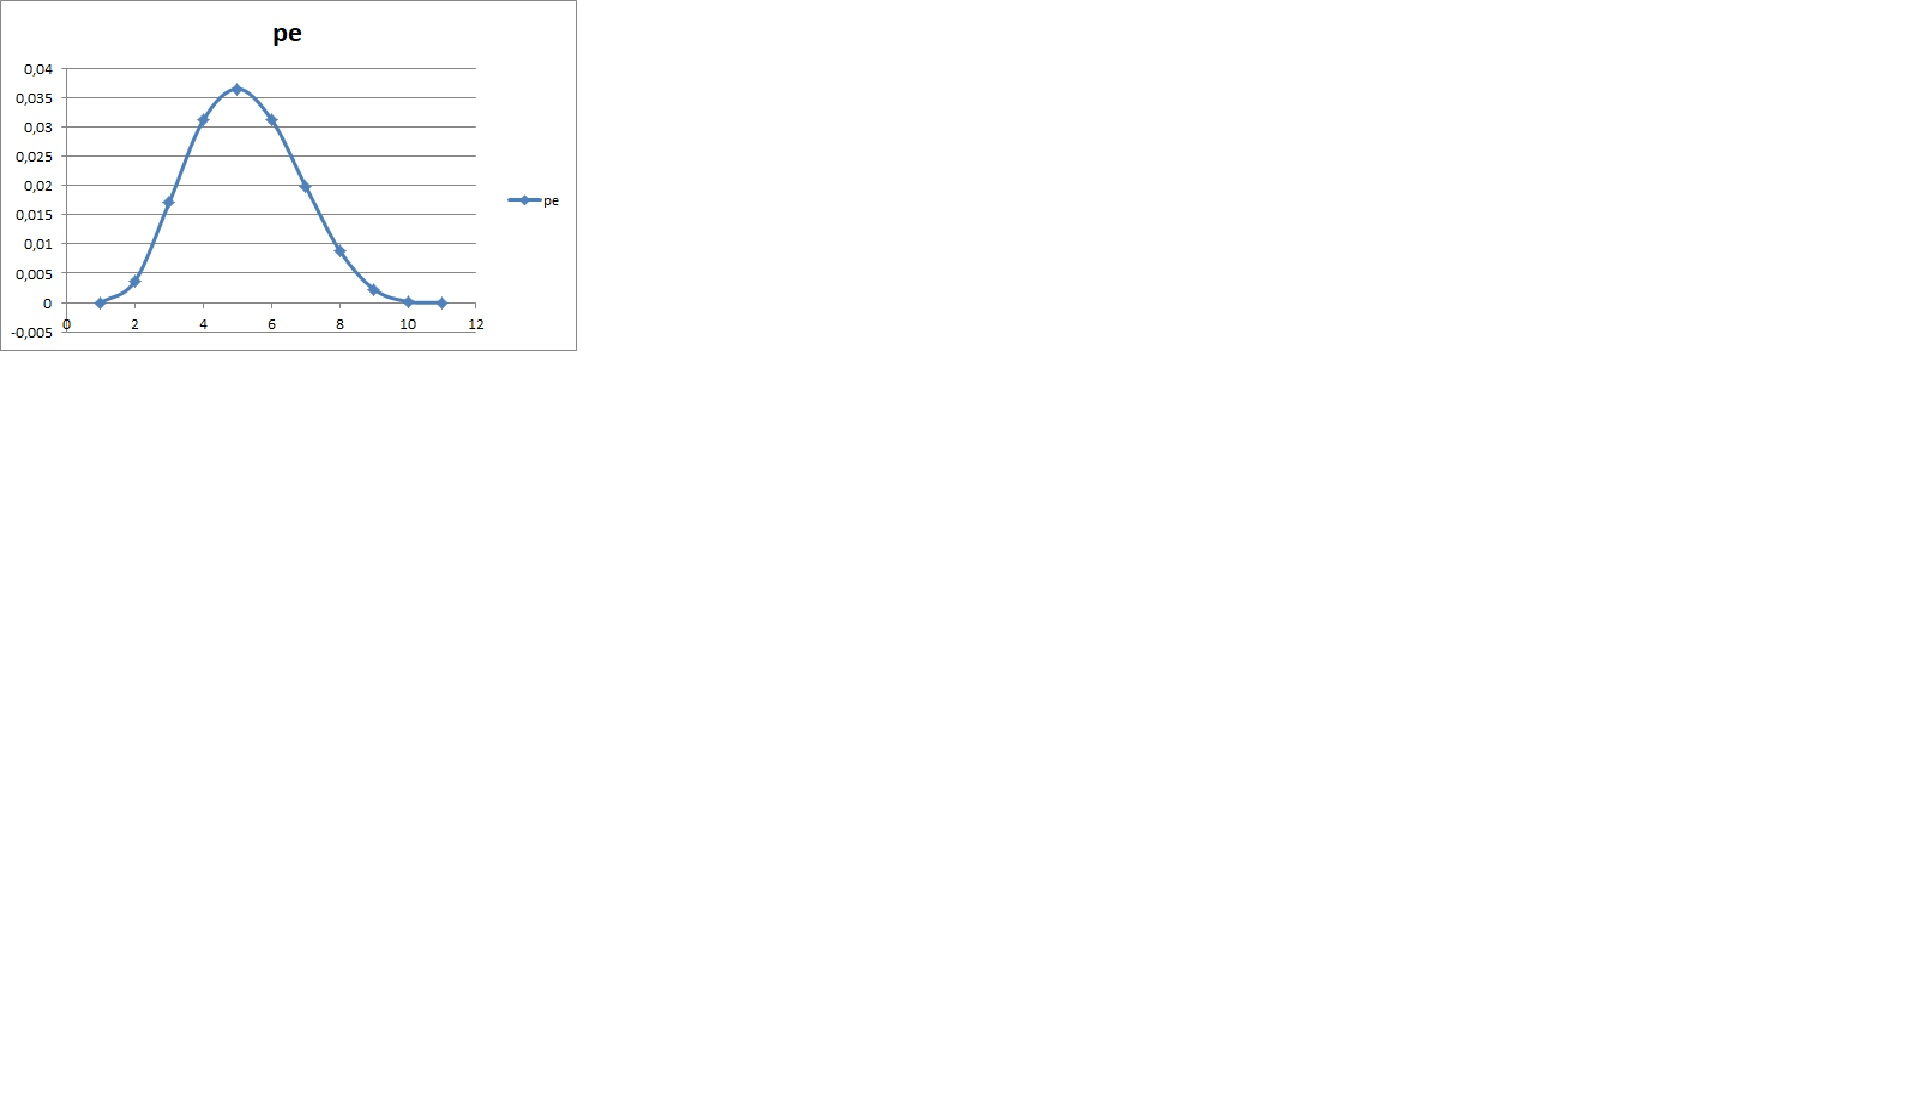
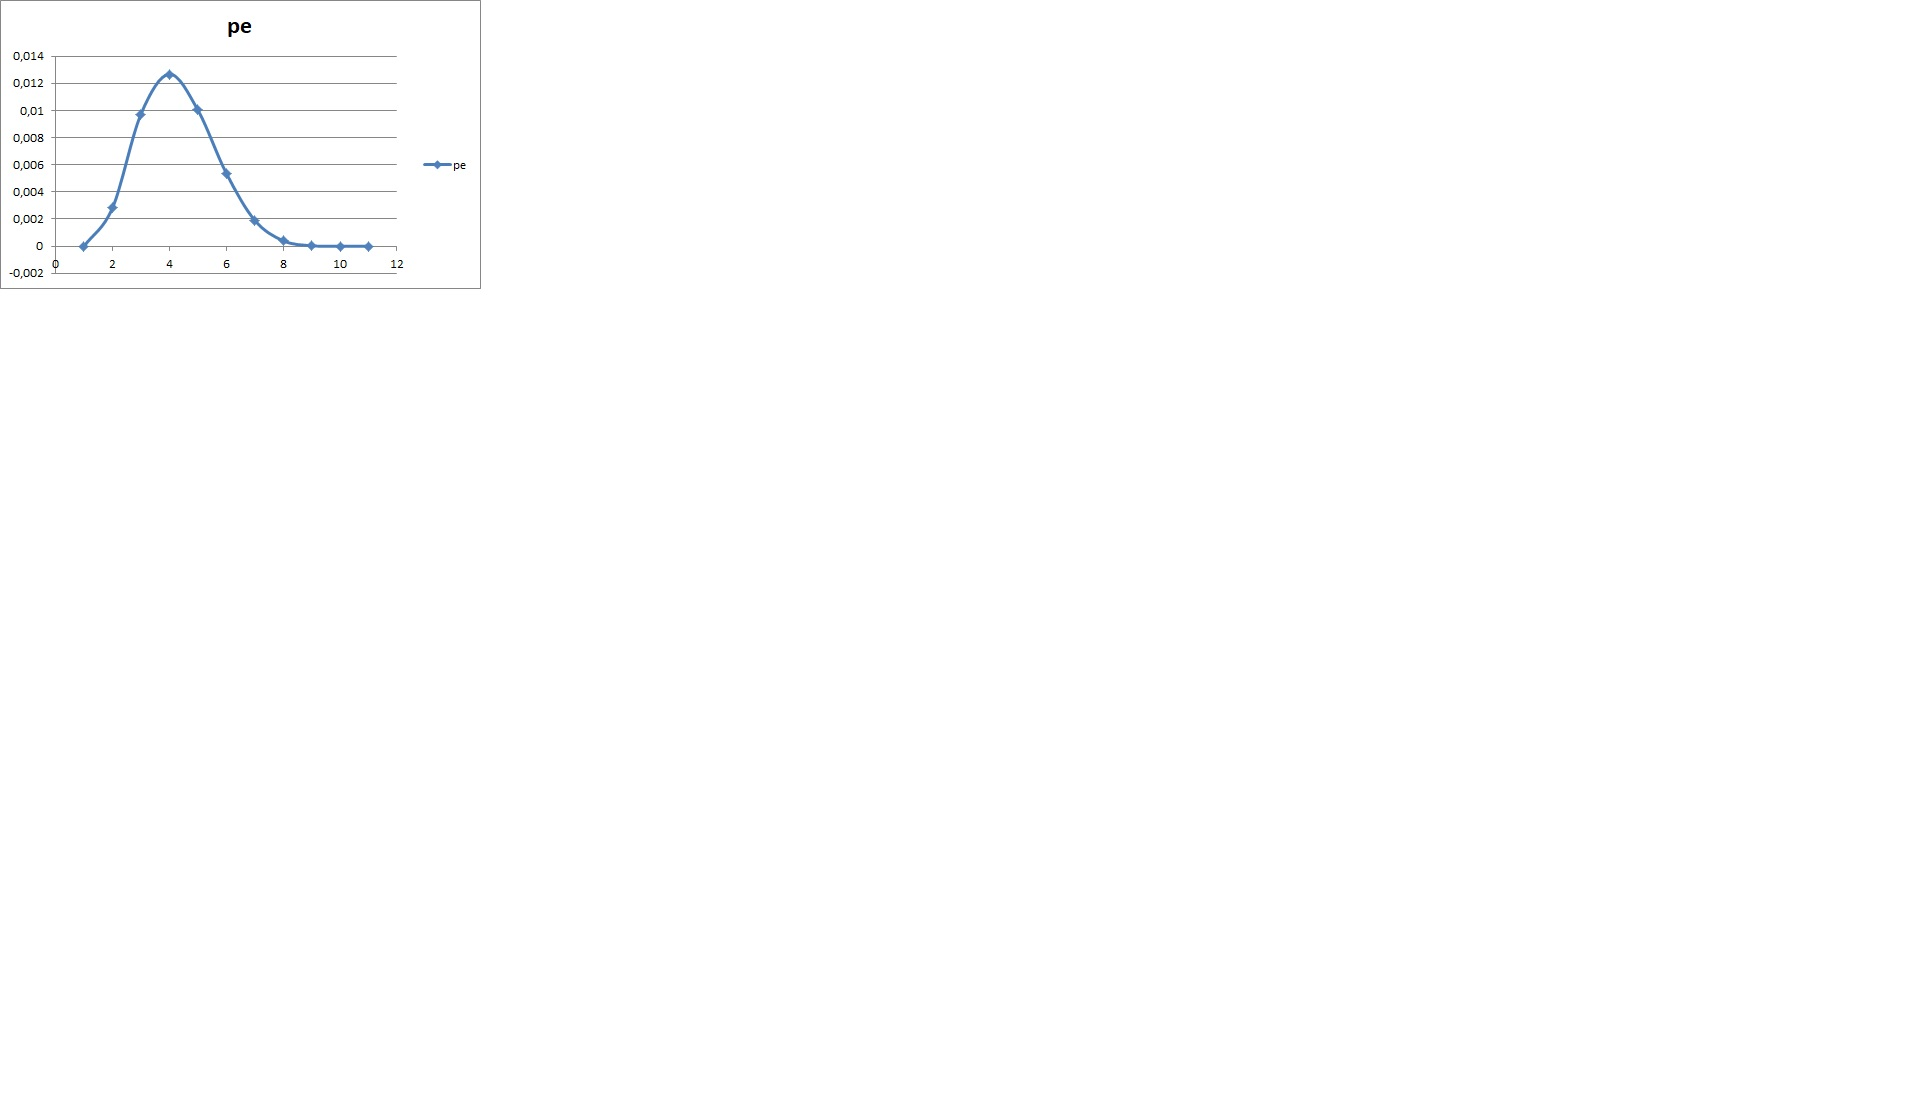
part_2

Changed region(s): [[0.0, 0.0, 0.2497, 0.3085], [0.2185, 0.1234, 0.2497, 0.1543]]

diff --git a/src/Main.java b/src/Main.java
@@ -1,69 +1,61 @@
 import java.util.ArrayList;
+import java.util.Scanner;
 
 public class Main{
 	public static void main(String[] args) throws Exception{
 		ArrayList<int[]> list = new ArrayList<>();
 		ArrayList<int[]> task2 = new ArrayList<>();
 		ArrayList<int[]> task3 = new ArrayList<>();
-		int r = 3;//степень порождающего многочлена
-		int k = 4;//длина сообщения
-		int d = 3;
+		Scanner in = new Scanner(System.in);
+		System.out.print("Input r: ");
+		int r = in.nextInt();//степень порождающего многочлена
+		System.out.print("Input k: ");
+		int k = in.nextInt();//длина сообщения
+		System.out.print("Input d: ");
+		int d = in.nextInt();
 		double p = 0.2;//значение ошибки для вычисления верхней границы ошибки
 		double []p_bit = {0, 0.1, 0.2, 0.3, 0.4, 0.5, 0.6, 0.7, 0.8, 0.9, 1};//значения ошибки на бит для вычисления точного значения ошибки
 		double []pe = new double[p_bit.length];
 		double []p_p = new double[p_bit.length];
+		int []g = new int[r + 1];
+		System.out.print("Input g: ");
+		for(int i = 0; i < k; i++){
+			g[i] = in.nextInt();
+			if(g[i] > 1) g[i] %= 2;
+			if(g[i] < 0 && g[i] > -2) g[i] *= -1;
+			if(g[i] < -2){
+				g[i] *= -1;
+				g[i] %= 2;
+			}
+		}
 		int []m = new int[k];
-		m[0] = 1;
-		m[1] = 1;
-		m[2] = 0;
-		m[3] = 0;
+		System.out.print("Input m: ");
+		for(int i = 0; i < k; i++){
+			m[i] = in.nextInt();
+			if(m[i] > 1) m[i] %= 2;
+			if(m[i] < 0 && m[i] > -2) m[i] *= -1;
+			if(m[i] < -2){
+				m[i] *= -1;
+				m[i] %= 2;
+			}
+		}
 		Cod_Dec cod_dec = new Cod_Dec(r, k, d);
-		cod_dec.set_g(0, 1);
-		cod_dec.set_g(1, 1);
-		cod_dec.set_g(2, 0);
-		cod_dec.set_g(3, 1);
-		cod_dec.print_g();
+		cod_dec.create_g(g);
 		cod_dec.create_m(m);
 		cod_dec.create_c();
 		cod_dec.create_a();
 		cod_dec.create_e();
 		cod_dec.create_b();
 		cod_dec.sindrom();
-		Cod_Dec []c = new Cod_Dec[16];
-		for(int i = 1; i < 16; i++){//составление всех возможных сообщений для длины k
+		int len = (int)Math.pow(2, k);
+		Cod_Dec []c = new Cod_Dec[len];
+		for(int i = 1; i < len; i++){//составление всех возможных сообщений для длины k
 			c[i] = new Cod_Dec(r, k, d);
 			int []m1 = new int[k];
 			Integer number = new Integer(i);
 			String num = Integer.toBinaryString(number);
-			if(i < 2){
-				m1[0] = 0;
-				m1[1] = 0;
-				m1[2] = 0;
-				m1[3] = (int)num.charAt(0) % 2;
-			}
-			if(i >= 2 && i < 4){
-				m1[0] = 0;
-				m1[1] = 0;
-				m1[2] = (int)num.charAt(1) % 2;
-				m1[3] = (int)num.charAt(0) % 2;
-			}
-			if(i >= 4 && i < 8){
-				m1[1] = (int)num.charAt(2) % 2;
-				m1[2] = (int)num.charAt(1) % 2;
-				m1[3] = (int)num.charAt(0) % 2;
-				m1[0] = 0;
-			}
-			if(i >= 8 && i < 16){
-				m1[0] = (int)num.charAt(3) % 2;
-				m1[1] = (int)num.charAt(2) % 2;
-				m1[2] = (int)num.charAt(1) % 2;
-				m1[3] = (int)num.charAt(0) % 2;
-			}
-			c[i].set_g(0, 1);
-			c[i].set_g(1, 1);
-			c[i].set_g(2, 0);
-			c[i].set_g(3, 1);
-			c[i].print_g();
+			m1 = toBinary(k, num, i);
+			c[i].create_g(g);
 			c[i].create_m(m1);
 			c[i].create_c();
 			c[i].create_a();
@@ -82,32 +74,15 @@ public class Main{
 		cod_dec.print_to_csv(pe, p_p, "pe", "p_p", "task1.csv");
 		//доп.задание l < k
 		int l = k - 1;
-		Cod_Dec []q = new Cod_Dec[8];
-		for(int i = 1; i < 8; i++){
+		len = (int)Math.pow(2, l);
+		Cod_Dec []q = new Cod_Dec[len];
+		for(int i = 1; i < len; i++){
 			q[i] = new Cod_Dec(r, l, d);
 			int []m1 = new int[l];
 			Integer number = new Integer(i);
 			String num = Integer.toBinaryString(number);
-			if(i < 2){
-				m1[0] = 0;
-				m1[1] = 0;
-				m1[2] = (int)num.charAt(0) % 2;
-			}
-			if(i >= 2 && i < 4){
-				m1[0] = 0;
-				m1[1] = (int)num.charAt(1) % 2;
-				m1[2] = (int)num.charAt(0) % 2;
-			}
-			if(i >= 4 && i < 8){
-				m1[0] = (int)num.charAt(2) % 2;
-				m1[1] = (int)num.charAt(1) % 2;
-				m1[2] = (int)num.charAt(0) % 2;
-			}
-			q[i].set_g(0, 1);
-			q[i].set_g(1, 1);
-			q[i].set_g(2, 0);
-			q[i].set_g(3, 1);
-			q[i].print_g();
+			m1 = toBinary(l, num, i);
+			q[i].create_g(g);
 			q[i].create_m(m1);
 			q[i].create_c();
 			q[i].create_a();
@@ -122,53 +97,16 @@ public class Main{
 		}
 		cod_dec.print_to_csv(pe, p_p, "pe", "p_p", "task2.csv");
 		//доп.задание l > k
-		l = k + 1;
-		Cod_Dec []t = new Cod_Dec[32];
-		for(int i = 1; i < 32; i++){
+		l = k + 4;
+		len = (int)Math.pow(2, l);
+		Cod_Dec []t = new Cod_Dec[len];
+		for(int i = 1; i < len; i++){
 			t[i] = new Cod_Dec(r, l, d);
 			int []m1 = new int[l];
 			Integer number = new Integer(i);
 			String num = Integer.toBinaryString(number);
-			if(i < 2){
-				m1[0] = 0;
-				m1[1] = 0;
-				m1[2] = 0;
-				m1[3] = 0;
-				m1[4] = (int)num.charAt(0) % 2;
-			}
-			if(i >= 2 && i < 4){
-				m1[0] = 0;
-				m1[1] = 0;
-				m1[2] = 0;
-				m1[3] = (int)num.charAt(1) % 2;
-				m1[4] = (int)num.charAt(0) % 2;
-			}
-			if(i >= 4 && i < 8){
-				m1[0] = 0;
-				m1[1] = 0;
-				m1[2] = (int)num.charAt(2) % 2;
-				m1[3] = (int)num.charAt(1) % 2;
-				m1[4] = (int)num.charAt(0) % 2;
-			}
-			if(i >= 8 && i < 16){
-				m1[0] = 0;
-				m1[1] = (int)num.charAt(3) % 2;
-				m1[2] = (int)num.charAt(2) % 2;
-				m1[3] = (int)num.charAt(1) % 2;
-				m1[4] = (int)num.charAt(0) % 2;
-			}
-			if(i >= 16 && i < 32){
-				m1[0] = (int)num.charAt(4) % 2;
-				m1[1] = (int)num.charAt(3) % 2;
-				m1[2] = (int)num.charAt(2) % 2;
-				m1[3] = (int)num.charAt(1) % 2;
-				m1[4] = (int)num.charAt(0) % 2;
-			}
-			t[i].set_g(0, 1);
-			t[i].set_g(1, 1);
-			t[i].set_g(2, 0);
-			t[i].set_g(3, 1);
-			t[i].print_g();
+			m1 = toBinary(l, num, i);
+			t[i].create_g(g);
 			t[i].create_m(m1);
 			t[i].create_c();
 			t[i].create_a();
@@ -193,5 +131,62 @@ public class Main{
 			}
 			System.out.println(")");
 		}
+	}
+
+	public static int[] toBinary(int size, String num, int i){//перевод числа в 2 систему счисления
+		int []m1 = new int[size];
+		if(i < 2){
+			m1[size - 1] = (int)num.charAt(0) % 2;//charAt - метод, который возвращает символ по индексу из строки; если 0 преобразовать к int получится число 48, 1 - 49; поэтому я беру число по модулю 2
+		}
+		if(i >= 2 && i < 4){
+			m1[size - 2] = (int)num.charAt(0) % 2;
+			m1[size - 1] = (int)num.charAt(1) % 2;
+		}
+		if(i >= 4 && i < 8){
+			m1[size - 3] = (int)num.charAt(0) % 2;
+			m1[size - 2] = (int)num.charAt(1) % 2;
+			m1[size - 1] = (int)num.charAt(2) % 2;
+		}
+		if(i >= 8 && i < 16){
+			m1[size - 4] = (int)num.charAt(0) % 2;
+			m1[size - 3] = (int)num.charAt(1) % 2;
+			m1[size - 2] = (int)num.charAt(2) % 2;
+			m1[size - 1] = (int)num.charAt(3) % 2;
+		}
+		if(i >= 16 && i < 32){
+			m1[size - 5] = (int)num.charAt(0) % 2;
+			m1[size - 4] = (int)num.charAt(1) % 2;
+			m1[size - 3] = (int)num.charAt(2) % 2;
+			m1[size - 2] = (int)num.charAt(3) % 2;
+			m1[size - 1] = (int)num.charAt(4) % 2;
+		}
+		if(i >= 32 && i < 64){
+			m1[size - 6] = (int)num.charAt(0) % 2;
+			m1[size - 5] = (int)num.charAt(1) % 2;
+			m1[size - 4] = (int)num.charAt(2) % 2;
+			m1[size - 3] = (int)num.charAt(3) % 2;
+			m1[size - 2] = (int)num.charAt(4) % 2;
+			m1[size - 1] = (int)num.charAt(5) % 2;
+		}
+		if(i >= 64 && i < 128){
+			m1[size - 7] = (int)num.charAt(0) % 2;
+			m1[size - 6] = (int)num.charAt(1) % 2;
+			m1[size - 5] = (int)num.charAt(2) % 2;
+			m1[size - 4] = (int)num.charAt(3) % 2;
+			m1[size - 3] = (int)num.charAt(4) % 2;
+			m1[size - 2] = (int)num.charAt(5) % 2;
+			m1[size - 1] = (int)num.charAt(6) % 2;
+		}
+		if(i >= 128 && i < 256){
+			m1[size - 8] = (int)num.charAt(0) % 2;
+			m1[size - 7] = (int)num.charAt(1) % 2;
+			m1[size - 6] = (int)num.charAt(2) % 2;
+			m1[size - 5] = (int)num.charAt(3) % 2;
+			m1[size - 4] = (int)num.charAt(4) % 2;
+			m1[size - 3] = (int)num.charAt(5) % 2;
+			m1[size - 2] = (int)num.charAt(6) % 2;
+			m1[size - 1] = (int)num.charAt(7) % 2;
+		}
+		return m1;
 	}
 }

diff --git a/src/Cod_Dec.java b/src/Cod_Dec.java
@@ -30,15 +30,17 @@ public class Cod_Dec{
 		this.d = d;
 	}
 
-	public void set_g(int index, int value){//задает порождающий многочлен
-		g[index] = value;
+	public void create_g(int []array){//задает порождающий многочлен(на вход принимается индекс и значние, которое записывается по этому индексу)
+		if(array.length == g.length){
+			for(int i = 0; i < array.length; i++){
+				g[i] = array[i];
+			}
+			print_array(g, "g");//вызов метода, который выводит многочлен на экран
+		}
+		else System.out.println("The dimensions don't match");
 	}
 
-	public void print_g(){//вывод порождающего многочлена на экран
-		print_array(g, "g");
-	}
-
-	public void create_m(int []m1){//создание сообщения
+	public void create_m(int []m1){//создание сообщения(принимается массив который записывается в  массив m)
 		if(m1.length == k){
 			for(int i = 0; i < k; i++){
 				this.m[i] = m1[i];
@@ -56,9 +58,9 @@ public class Cod_Dec{
 		for(int i = 1; i < x.length; i++){
 			x[i] = 0;
 		}
-		int []tmp = multiply(m, x);
+		int []tmp = multiply(m, x);//метод для перемножения многочленов
 		//print_array(tmp, "m(x) * x^r");
-		c = mod(tmp);
+		c = mod(tmp);//метод деления многочленов
 		//print_array(c, "c");
 	}
 
@@ -79,20 +81,20 @@ public class Cod_Dec{
 		int []tmp1 = new int[1];
 		tmp1[0] = 0;
 		while(tmp_deg >= r){
-			int deg = tmp_deg - r;
+			int deg = tmp_deg - r;//понижение степени многочлена
 			int []x = new int[deg + 1];
 			x[0] = 1;
 			//print_array(x, "x^");
-			int []t = multiply(x, g);
+			int []t = multiply(x, g);//перемножение многочленов
 			//print_array(t, "x^ * g(x)");
-			tmp = minus(tmp, t);
+			tmp = minus(tmp, t);//метод вычитания многочленов
 			//print_array(tmp, "(m(x) * x^) - (x^ * g(x))");
-			zero = count_zero(tmp);
+			zero = count_zero(tmp);//подсчет количества нулей в векторе
 			if(zero == tmp.length){//если многочлен стал нулевым то выходим из деления
 				return tmp1;
 			}
 			else{
-				tmp = cut0(tmp);
+				tmp = cut0(tmp);//убираем все нули, которые стоят в начале
 				//print_array(tmp, "(m(x) * x^) - (x^ * g(x))_cut");
 				tmp_deg = tmp.length - 1;
 			}
@@ -137,16 +139,16 @@ public class Cod_Dec{
 		int i = 0;
 		int j = 0;
 		int tmp = a.length - c.length - m.length;
-		while(i < m.length){
+		while(i < m.length){//в начало копируется вектор m
 			a[i] = m[i];
 			i++;
 		}
-		while(tmp > 0){
+		while(tmp > 0){//если длина вектора а больше суммы с и m заполняем нулями
 			a[i] = 0;
 			i++;
 			tmp--;
 		}
-		while(j < c.length){
+		while(j < c.length){//в конец копируется вектор с
 			a[i] = c[j];
 			i++;
 			j++;
@@ -161,18 +163,18 @@ public class Cod_Dec{
 	public void create_e(){//создание вектора ошибок
 		Scanner s = new Scanner(System.in);
 		System.out.print("Input e: ");
-		for(int i = 0; i < e.length; i++){
+		for(int i = 0; i < e.length; i++){//ввод вектора ошибок с клавиатуры
 			e[i] = s.nextInt();
 			e[i] %= 2;
 		}
-		print_array(e, "e");
+		print_array(e, "e");//вывод вектора на экран
 	}
 
 	public void create_b(){//создание сообщения, которое принимает декодер
 		for(int i = 0; i < b.length; i++){
 			b[i] = (a[i] + e[i]) % 2;
 		}
-		print_array(b, "b");
+		print_array(b, "b");//вывод вектора на экран
 	}
 
 	public void sindrom(){//вычисление синдрома
